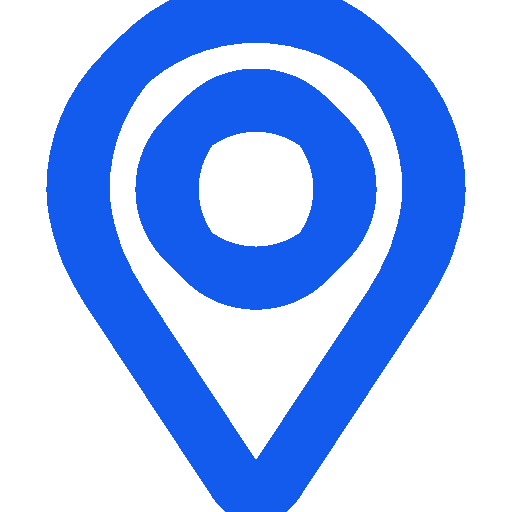
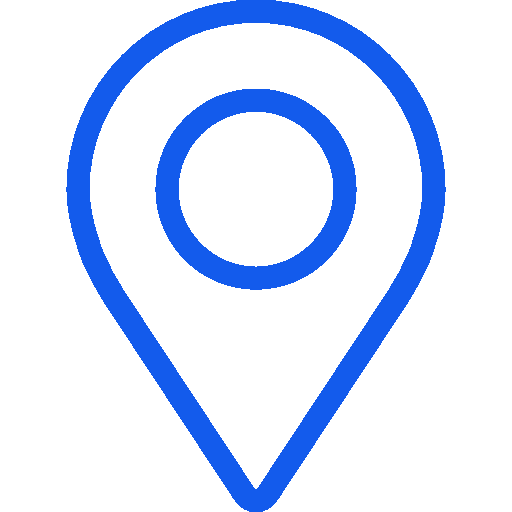
contact details done as well tomorrow I will continue connect part and than location

Changed region(s): [[0.0938, 0.0, 0.9062, 1.0]]

diff --git a/src/components/contact/ContactDetails.tsx b/src/components/contact/ContactDetails.tsx
@@ -1,0 +1,30 @@
+import email from "../../assets/contact/mail.png";
+import pin from "../../assets/contact/pin.png";
+
+const ContactDetails = () => {
+  return (
+    <section className="bg-white rounded-xl px-5 py-8 mt-10">
+      <h2 className="font-bold text-xl">Contact Details</h2>
+      <div className="flex flex-row items-center gap-3 mt-5">
+        <div className="w-10 h-10 bg-blue-100 flex justify-center items-center rounded-full">
+          <img src={email} alt="email icon" className="w-6 h-6" />
+        </div>
+        <div className="flex flex-col">
+          <h3 className="text-gray-500">Email</h3>
+          <p className="font-bold">sabaphruidze01@gmail.com</p>
+        </div>
+      </div>
+      <div className="flex flex-row items-center gap-3 mt-5">
+        <div className="w-10 h-10 bg-blue-100 flex justify-center items-center rounded-full">
+          <img src={pin} alt="email icon" className="w-6 h-6" />
+        </div>
+        <div className="flex flex-col">
+          <h3 className="text-gray-500">Email</h3>
+          <p className="font-bold">sabaphruidze01@gmail.com</p>
+        </div>
+      </div>
+    </section>
+  );
+};
+
+export default ContactDetails;

diff --git a/src/pages/Contact.tsx b/src/pages/Contact.tsx
@@ -1,11 +1,13 @@
+import ContactDetails from "../components/contact/ContactDetails";
 import GetInTouch from "../components/contact/GetInTouch";
 import InputBox from "../components/contact/InputBox";
 
 const Contact = () => {
   return (
-    <div className="px-5 pt-10 bg-gray-50 h-250">
+    <div className="px-5 pt-10 bg-gray-100 h-400">
       <GetInTouch />
       <InputBox />
+      <ContactDetails />
     </div>
   );
 };
